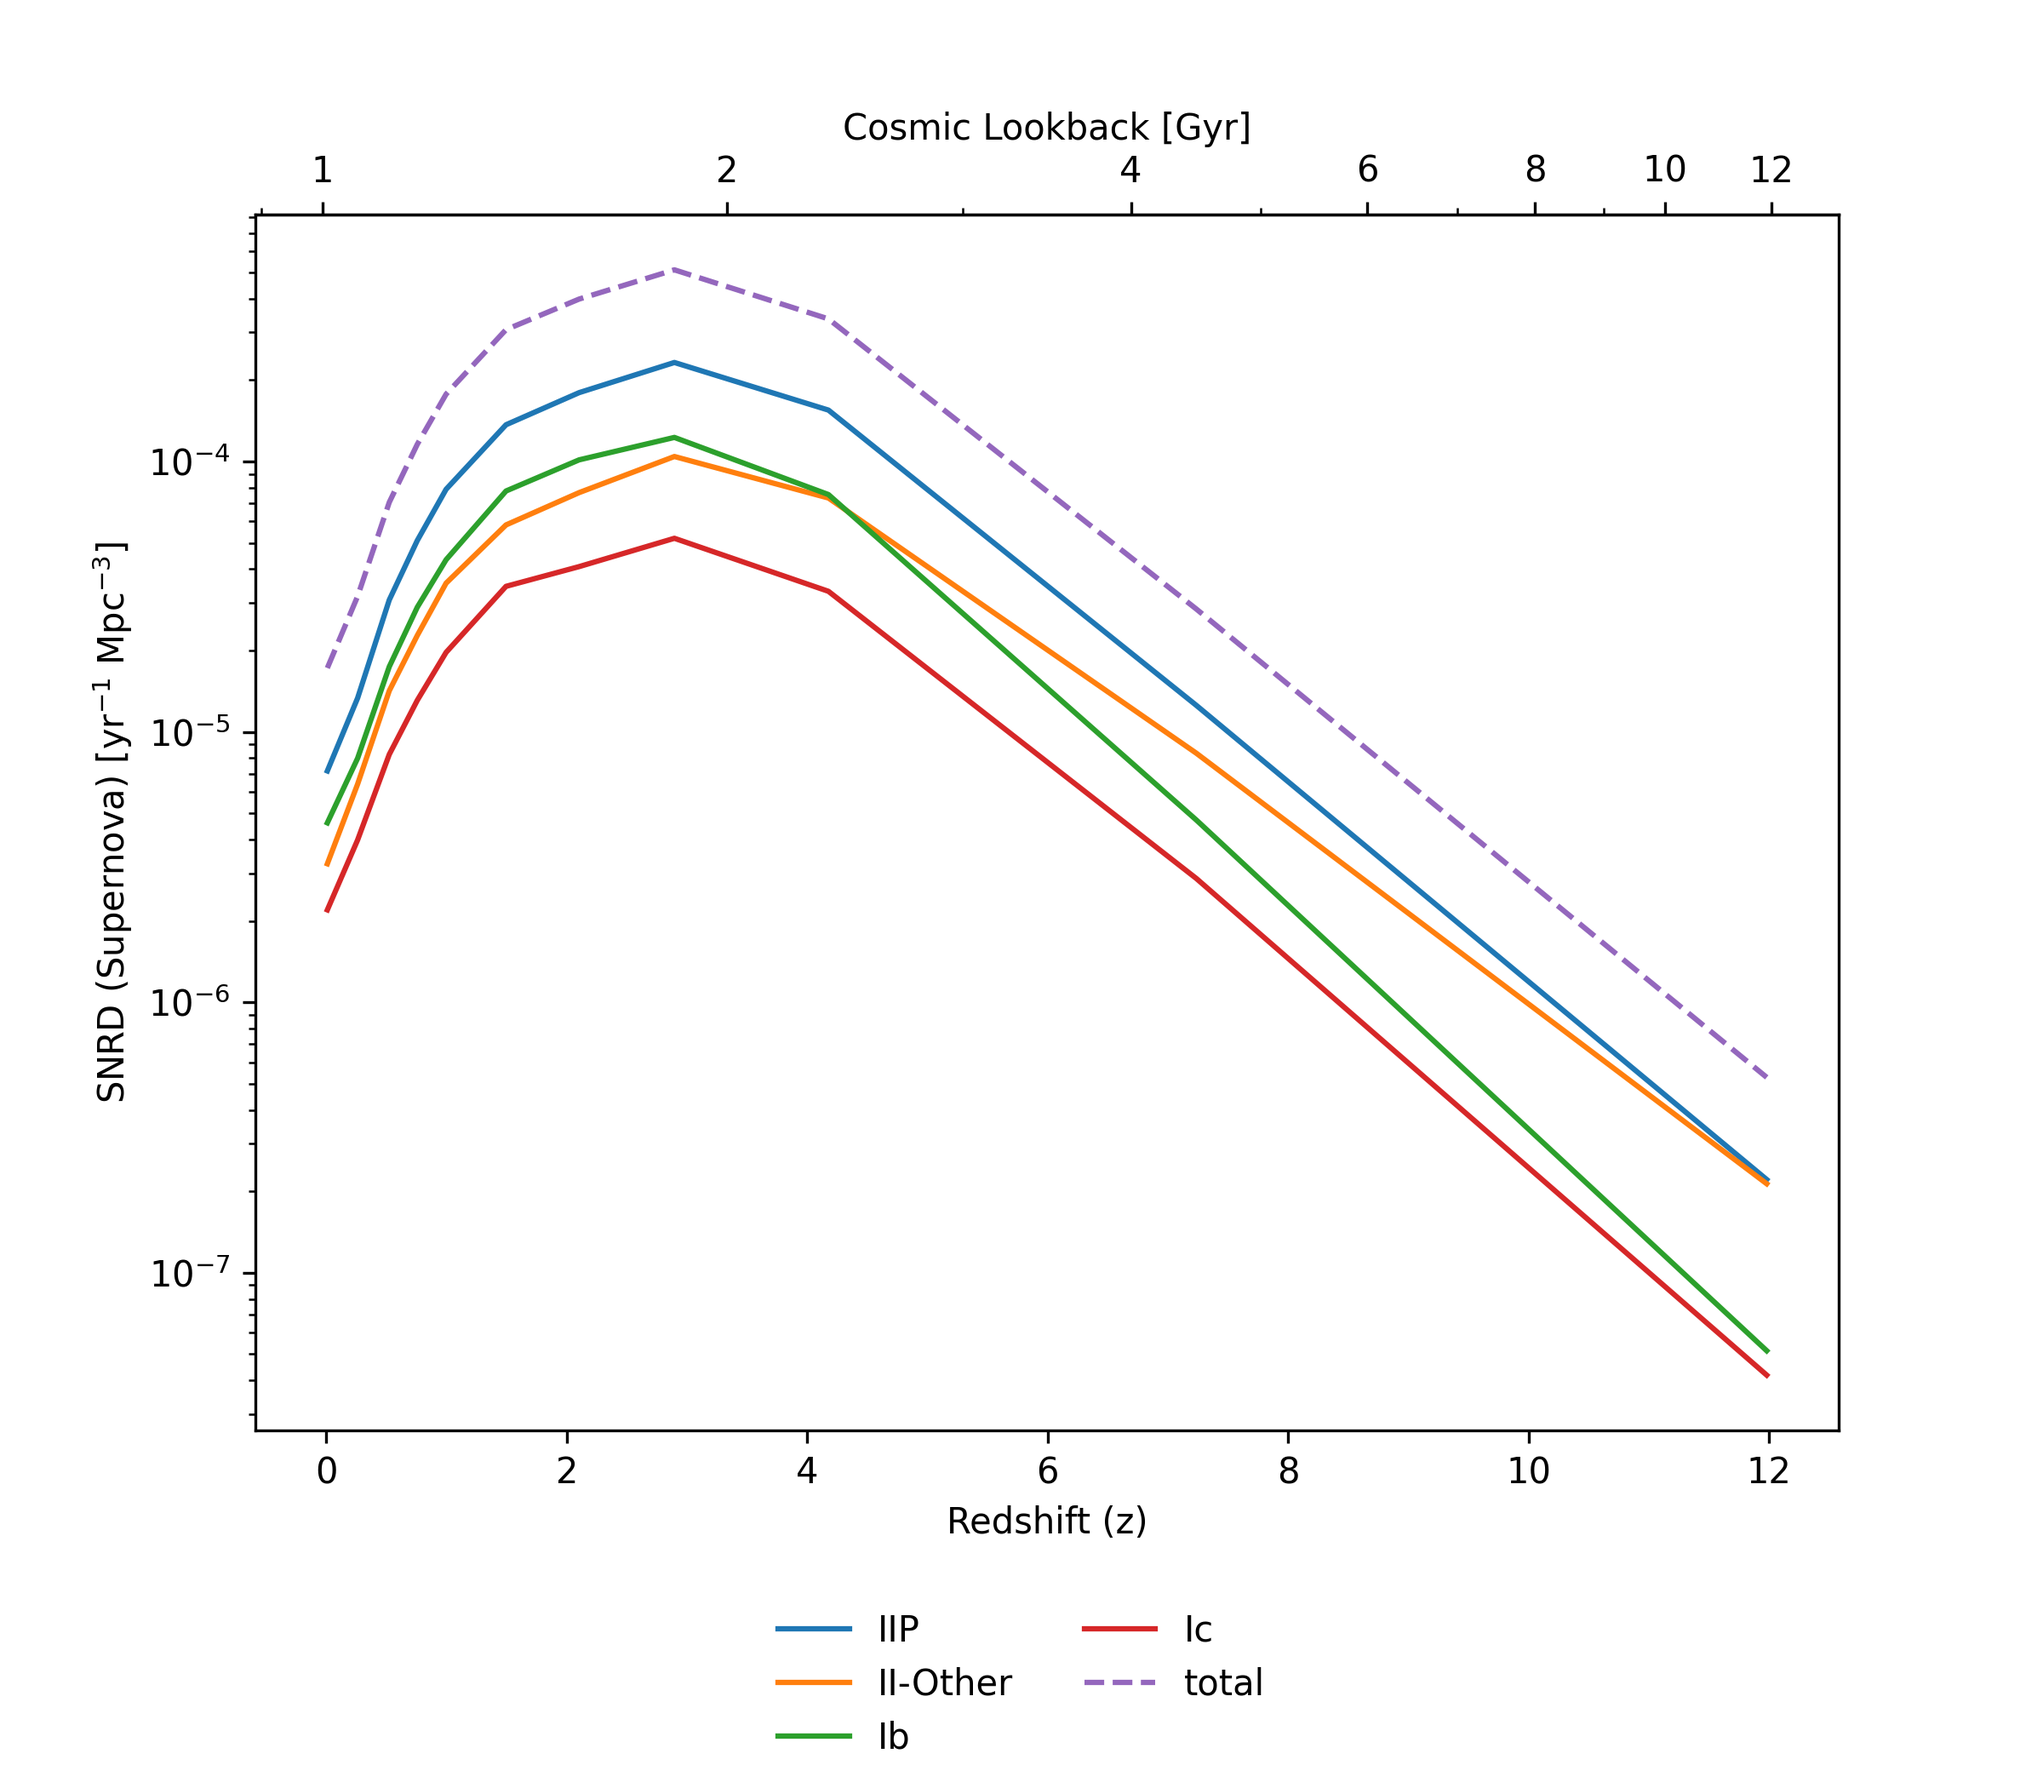
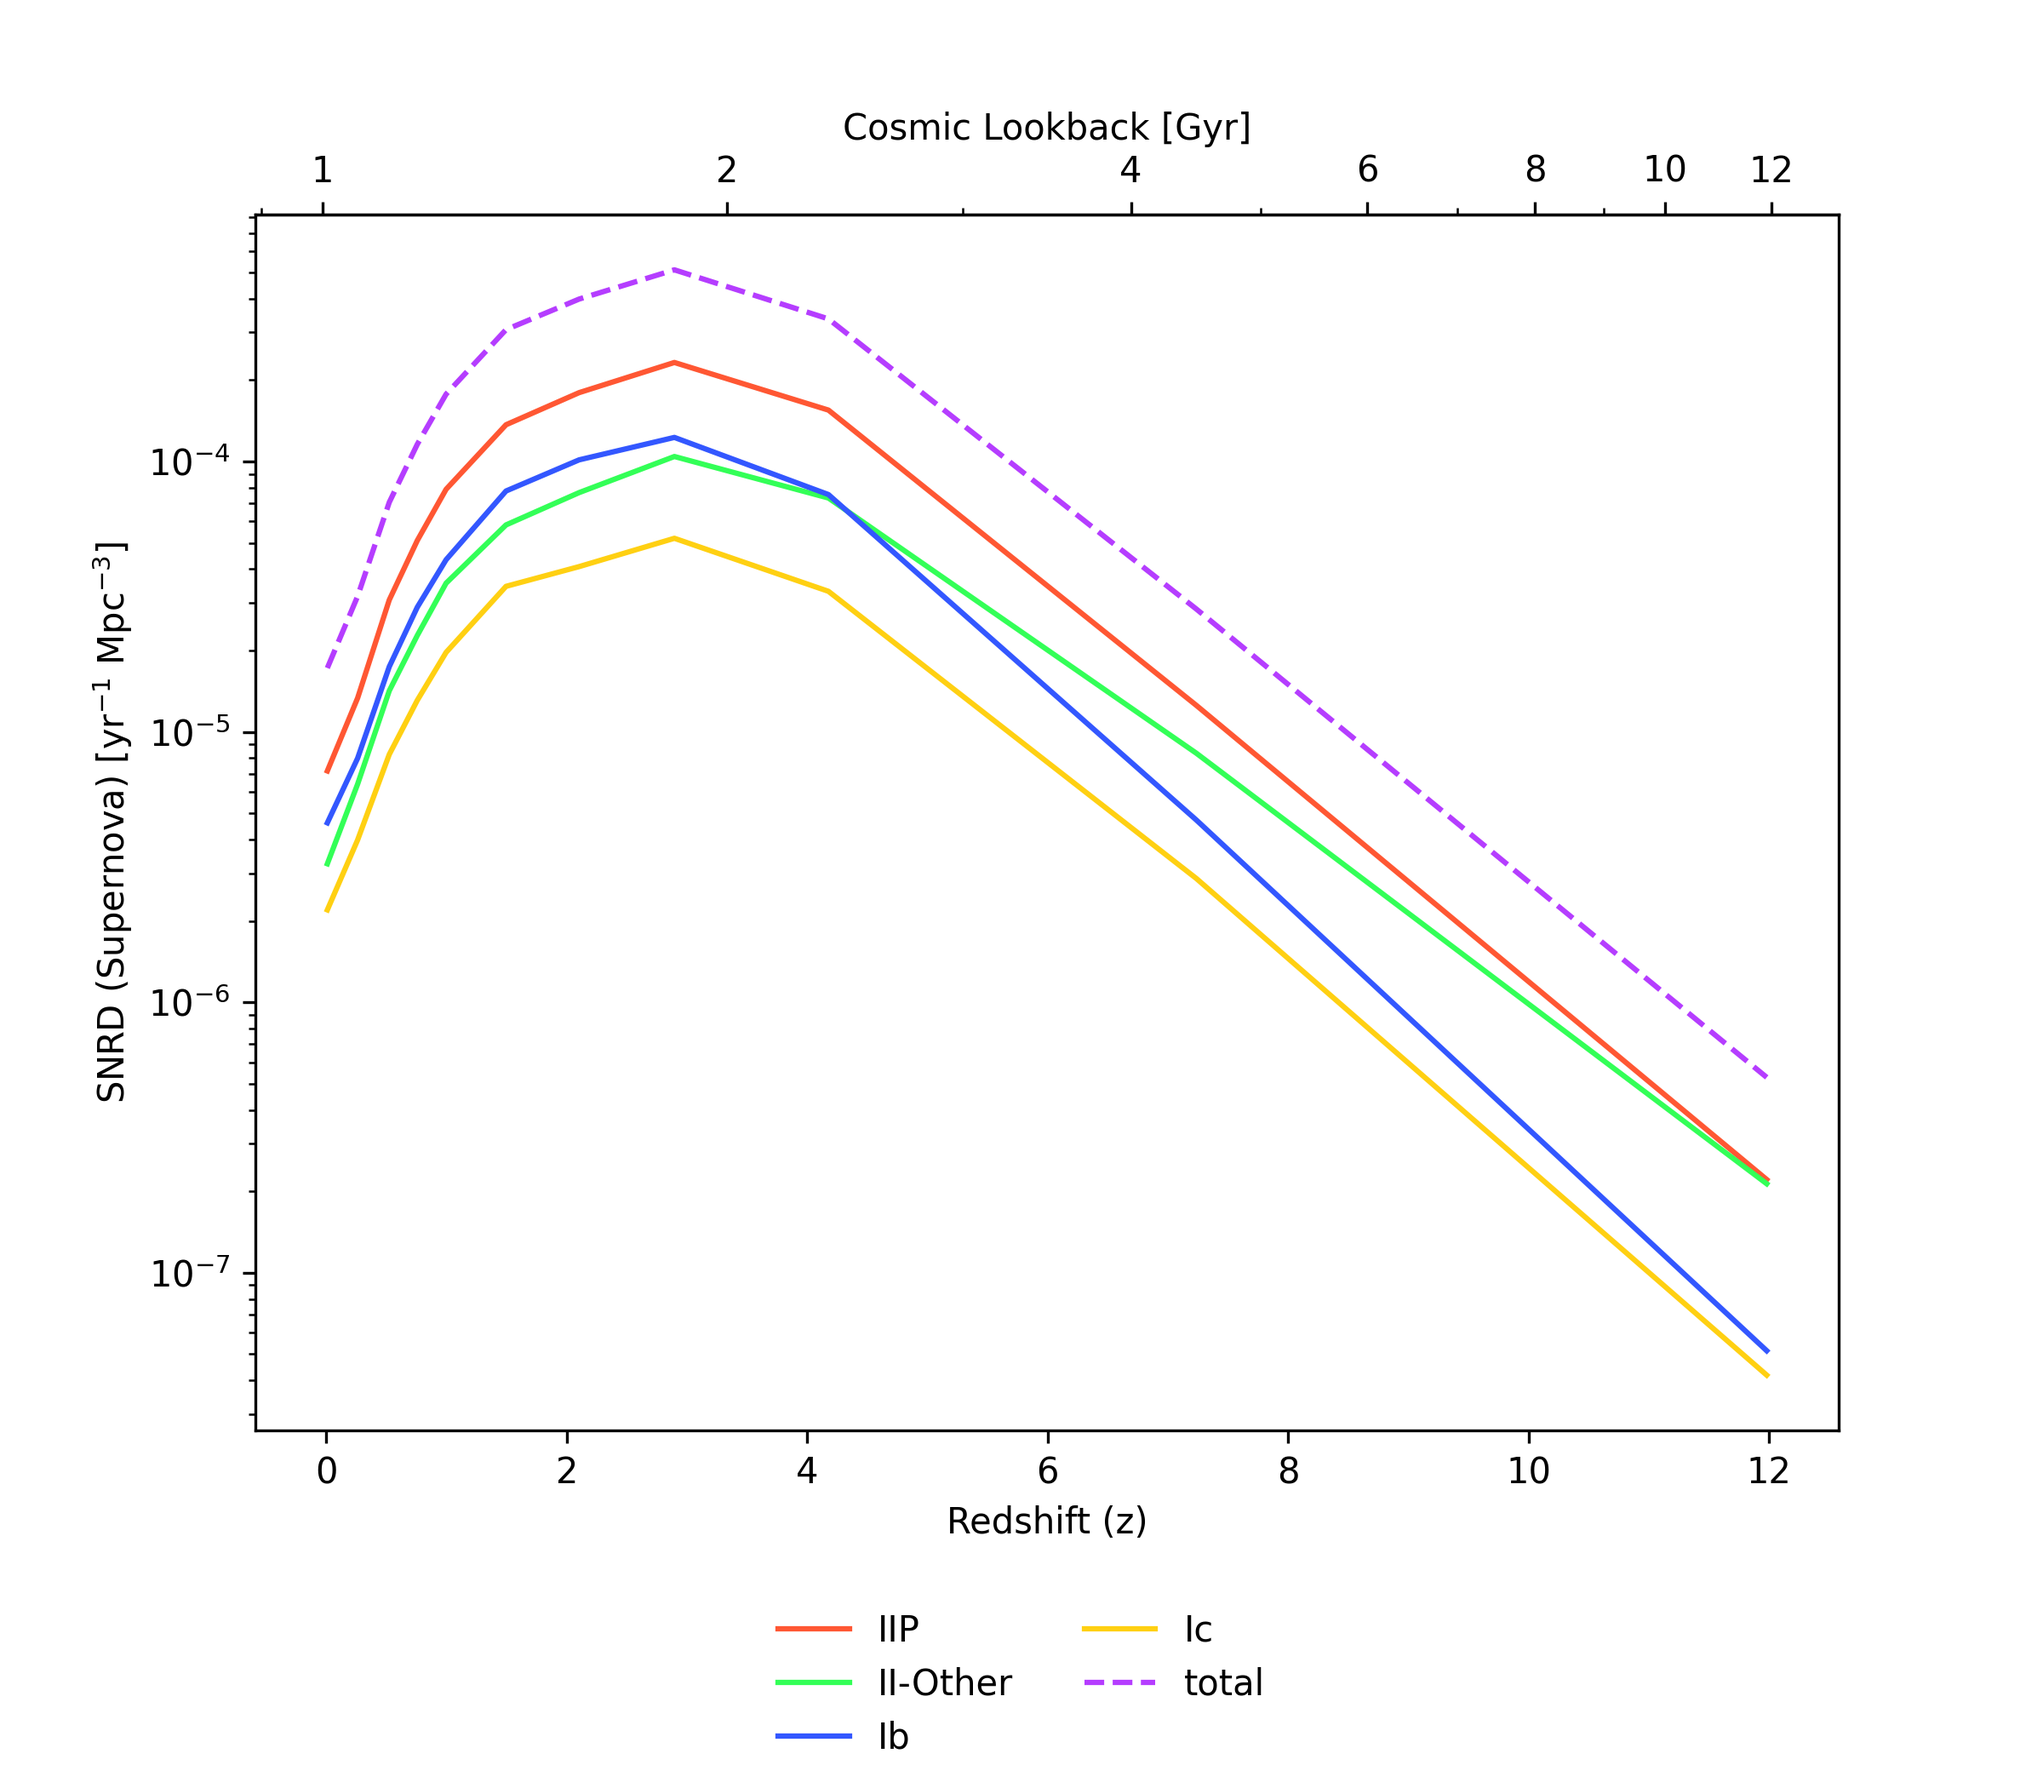
sn colours same

diff --git a/halo.py b/halo.py
@@ -36,9 +36,8 @@ import pandas as pd
 import matplotlib.pyplot as plt
 from functools import reduce
 from matplotlib.animation import FuncAnimation, PillowWriter
-from scipy.interpolate import UnivariateSpline
-from statsmodels.nonparametric.smoothers_lowess import lowess
 from sklearn.linear_model import LinearRegression
+from scipy import stats
 
 base = os.getcwd()
 rate_base = os.path.join(base, 'Data/TNG/Rates')
@@ -48,6 +47,9 @@ cols_suffix = ["sfr_", "sfrd_", "snr_", "snrs_", "snrd_"]
 cols_suffix_2 = ["sfr_", "snr_", "snrs_"]
 colors = ['#FF5733', '#33FF57', '#3357FF', "#FFD012"]
 colors1 = ["#C13D20", "#1EC93E", "#1D36A7", "#C7A20F"]
+
+def linear(x, slope, intercept):
+    return slope * x + intercept
 
 # merge function
 def merge_keep_one(left, right):
@@ -147,20 +149,20 @@ def redshift_bins(snaps, png_name='ratio.png', pcols=1):
             std_dev_bin = np.std(avg_ratio, ddof=1)  # ddof=1 gives sample std
             std_error_bin = std_dev_bin / np.sqrt(len(avg_ratio))
 
-            #axes[i].scatter(bin_centers, avg_ratio, label=sn, color=colors[idx], marker='D', edgecolors='black')
+            # plot
             axes_bin[i].scatter(bin_centers, avg_ratio, label=sn, color=colors[idx], marker='D', edgecolors='black')
-
             axes[i].errorbar(bin_centers, avg_ratio, yerr=std_error_bin, color='black', fmt='D', capsize=5, zorder=10)
             axes[i].scatter(bin_centers, avg_ratio, label=sn, color=colors[idx], marker='D', edgecolors='black', zorder=20)
 
-            # Take log of x
-            x_log = np.log10(bin_centers).reshape(-1, 1)  # or np.log(x) for natural log
+            # linear regress
+            z_log = np.log10(bin_centers).reshape(-1, 1)  # or np.log(x) for natural log
+            #slope, intercept, r, p, std_err = stats.linregress(z_log, avg_ratio)
+            #regress = linear(z_log, slope, intercept)
             model = LinearRegression()
-            model.fit(x_log, avg_ratio)
-            y_pred = model.predict(x_log)
+            model.fit(z_log, avg_ratio)
+            y_pred = model.predict(z_log)
             axes[i].plot(bin_centers, y_pred, color='black', linewidth=2, zorder=30)  
             axes[i].plot(bin_centers, y_pred, color=colors[idx], linewidth=1, zorder=40)  
-            
             axes_bin[i].plot(bin_centers, y_pred, color='black', linewidth=2, zorder=30) 
             axes_bin[i].plot(bin_centers, y_pred, color=colors[idx], linewidth=1, zorder=40) 
 
@@ -174,7 +176,8 @@ def redshift_bins(snaps, png_name='ratio.png', pcols=1):
         axes_bin[i].set_ylabel("Supernova Fraction [%]")
         axes_bin[i].set_xscale('log')
         axes_bin[i].set_title(f"Redshift={z:.2f}")
-
+    
+    # legends
     handles, labels = axes[0].get_legend_handles_labels()
     fig.legend(handles, labels, loc="lower center", ncol=len(sn_type))
     fig.tight_layout(rect=[0, 0.1, 1, 1])
@@ -183,7 +186,7 @@ def redshift_bins(snaps, png_name='ratio.png', pcols=1):
 
     handles, labels = axes_bin[0].get_legend_handles_labels()
     fig_bin.legend(handles, labels, loc="lower center", ncol=len(sn_type))
-    fig_bin.tight_layout(rect=[0, 0.1, 1, 1])
+    fig_bin.tight_layout(rect=[0, 0.07, 1, 1])
     fig_bin.savefig(f"Data/Images/TNG/ratio/mass/reduced/b{png_name}", dpi=300)
     plt.close(fig_bin)
 
@@ -280,12 +283,20 @@ def run_cosmic():
         z = df["Redshift"]
         ratio = df[f'{sn}']
         err = df[f'{sn}_err']
+        
+        slope, intercept, r, p, std_err = stats.linregress(z, ratio)
+        regress = linear(z, slope, intercept)
+
         ax.plot(z, ratio, color=colors[idx], label=f'{sn}')
         ax.errorbar(z, ratio, yerr=err, color='black', fmt='D', capsize=5, zorder=10)
         ax.scatter(z, ratio, label=sn, color=colors[idx], marker='D', edgecolors='black', zorder=20)
         ax.plot(z, ratio, color=colors1[idx])
-        ax.set_xlabel("Redshift")
-        ax.set_ylabel("Supernova Fraction")
+
+        ax.plot(z, regress, color='black')
+        
+        
+    ax.set_xlabel("Redshift")
+    ax.set_ylabel("Supernova Fraction")
 
     handles, labels = ax.get_legend_handles_labels()
     fig.legend(handles, labels, loc="lower center", ncol=len(sn_type))

diff --git a/tng.py b/tng.py
@@ -42,6 +42,7 @@ tqdm.set_lock(RLock())
 MAX_WORKERS = 4
 colours = ['cyan', 'blue', 'orange', 'magenta', 'red', 'yellow', 'brown', 'limegreen', 'purple', 'pink', 'grey', 'black']
 colours = ['#800080',"#1a1a1a", "#3714ff", '#c0c0c0', "#1fb81f", '#40e0d0','#ffd700','#ffa500','#ff7f50',"#f53eff","#ff0000", '#87ceeb']
+sn_colours = ['#FF5733', '#33FF57', '#3357FF', "#FFD012", "#B53DFF"]
 
 bpass = BPASSDataFormatter()
 allSupernovaArray, allIonizingArray, combinedSupernovaIon = bpass.getAllFormattedData()
@@ -240,9 +241,12 @@ def plt_helper(size1, size2, xlabel, ylabel, logx=True, logy=True, legendspace=N
     return fig, ax
 
 # set labels for axes 
-def plt_labels(fig, ax, col):
+def plt_labels(fig, ax, col, gap=None):
     handles, labels = ax.get_legend_handles_labels()
     fig.legend(handles, labels,loc='lower center',ncol=col, frameon=False)
+
+    if gap != None:
+        fig.tight_layout(rect=[0, gap, 1, 1])
 
     return fig, ax
 
@@ -580,7 +584,7 @@ total_snr = []
 
 test_dict = {}
 
-for sn_type in all_sn_types:
+for i, sn_type in enumerate(all_sn_types):
     rates_folder = f"/Users/dan/Code/FYP/Data/TNG/Rates" + f"/{sn_type}"
     print(sn_type)
     if sn_type in ["IIP"]:
@@ -612,22 +616,22 @@ for sn_type in all_sn_types:
             plt.figure(fig_num).savefig(f"Data/Images/TNG/final/{sn_type}/{plot_names[idx]}.png", dpi=300)
             plt.close(curr_fig)
 
-    ax_types1.plot(rev_redshifts, snrd, label=f'{sn_type}')
+    ax_types1.plot(rev_redshifts, snrd, label=f'{sn_type}', color=sn_colours[i])
     test_dict[sn_type] = [sfrh, snrd]
 
-ax_types1.plot(rev_redshifts, total_snr, label=f'total', linestyle='--')
+ax_types1.plot(rev_redshifts, total_snr, label=f'Total', linestyle='--', color=sn_colours[4])
 plt_labels(fig_types1, ax_types1, 2)
 
 ax_total_sfr.plot(rev_redshifts, total_sfr, label=f'TNG100-1', color='orange')
 ax_total_sfr.plot(redshift_linespace, sfrh_md14, label=f'MD14', color='navy')
 ax_total_sfr.plot(rev_redshifts, sfrh_halos, label=f'Group Catalog', color='lime')
-plt_labels(fig_total_sfr, ax_total_sfr, 2)
+plt_labels(fig_total_sfr, ax_total_sfr, 2, 0.1)
 
 kcc = supernova_efficiency(imf.chabrier)
 ax_total_snr.plot(rev_redshifts, total_snr, label=f'TNG100-1', color='orange')
 ax_total_snr.plot(redshift_linespace, snrd_md14, label=f'MD14', color='navy')
 #ax_total_snr.plot(rev_redshifts, sfrh_halos * kcc, label=f'Group Catalog', color='lime')
-plt_labels(fig_total_snr, ax_total_snr, 2)
+plt_labels(fig_total_snr, ax_total_snr, 2, 0.07)
 
 fig_types1.savefig("Data/Images/TNG/final/cosmic_type.png", dpi=300)
 fig_total_sfr.savefig(f"Data/Images/TNG/final/cosmic_sfh.png", dpi=300)
@@ -636,9 +640,9 @@ fig_total_snr.savefig(f"Data/Images/TNG/final/cosmic_snh.png", dpi=300)
 plt.close(fig_total_sfr)
 plt.close(fig_total_snr)
 
-fig_ratio, ax_ratio = plt_helper(8, 7, "redshift",  r'Supernova Fraction', logx=False, logy=False, legendspace=0.2)
+fig_ratio, ax_ratio = plt_helper(8, 7, "Redshift (z)",  r'Supernova Fraction', logx=False, logy=False, legendspace=0.2)
 ratios = []
-for item in test_dict.items():
+for idx, item in enumerate(test_dict.items()):
     name = item[0]
     csfrh = item[1][0]
     csnrh = item[1][1]
@@ -649,7 +653,8 @@ for item in test_dict.items():
     #print(sum(csnrh/total_snr), len(csnrh))
     ratios.append(sn_ratio)
 
-    ax_ratio.plot(rev_redshifts, csnrh/total_snr)
+    ax_ratio.plot(rev_redshifts, csnrh/total_snr, color=sn_colours[idx], label=name)
 
+plt_labels(fig_ratio, ax_ratio, 2, 0.07)
 fig_ratio.savefig("Data/Images/TNG/final/cosmic_ratio.png", dpi=300)
 print('total', sum(ratios))
